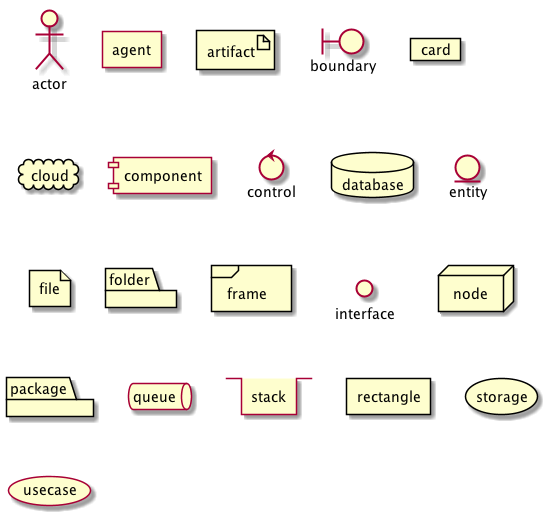
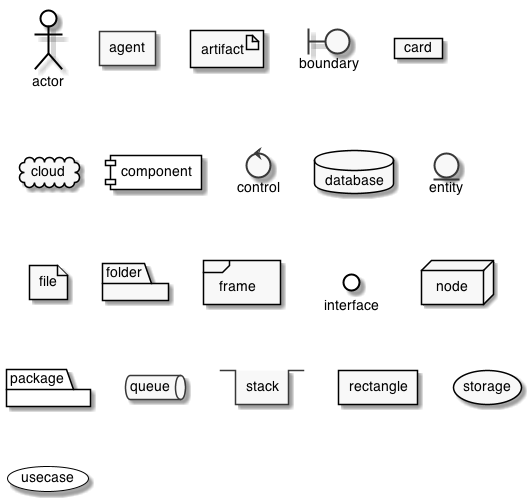
Add styles

diff --git a/README.md b/README.md
@@ -11,6 +11,7 @@ http://plantuml.com/class-diagram
 
 ```plantuml
 @startuml
+!include styles.txt
 System1 -> System2: Request
 System2 --> System1: Response
 @enduml
@@ -23,6 +24,7 @@ System2 --> System1: Response
 
 ```plantuml
 @startuml
+!include styles.txt
 left to right direction
 User1 --> (Story1)
 (Story1) --> (Story2)
@@ -37,6 +39,7 @@ User1 --> (Story1)
 
 ```plantuml
 @startuml
+!include styles.txt
 object Object1 {
   Alpha
   Bravo
@@ -69,6 +72,7 @@ Object1 o-- Object4
 
 ```plantuml
 @startuml
+!include styles.txt
 class Class1 {
   {field} Alpha
   {method} Bravo
@@ -101,6 +105,7 @@ Class1 o-- Class4
 
 ```plantuml
 @startuml
+!include styles.txt
 start
 -> Starting;
 :Activity 1;
@@ -122,6 +127,7 @@ stop
 
 ```plantuml
 @startuml
+!include styles.txt
 component "Component"
 interface "Interface"
 database "Database"
@@ -138,6 +144,7 @@ package "Package"
 
 ```plantuml
 @startuml
+!include styles.txt
 [*] --> State1 : Start
 State1 -> State2 : Change1
 State2 -> State3 : Change2
@@ -149,25 +156,13 @@ State3 : Description 3
 ```
 
 
-## Gantt chart
-
-![Gantt chart](doc/gantt_chart.png)
-
-```plantuml
-@startgantt
-[Task1] on {Alice} lasts 8 days
-then [Task2] on {Bob} lasts 4 days at 50% 
-then [Task3] on {Carol} lasts 2 days at 25%
-@endgantt
-```
-
-
 ## Deployment diagram
 
 ![Deployment diagram](doc/deployment_diagram.png)
 
 ```plantuml
 @startuml
+!include styles.txt
 actor actor
 agent agent
 artifact artifact
@@ -199,6 +194,7 @@ usecase usecase
 
 ```plantuml
 @startuml
+!include styles.txt
 concise "My Timeline" as T
 @T
 0 is Alpha
@@ -227,4 +223,17 @@ salt
   ^This is a droplist^
 }
 @enduml
+```
+
+
+## Gantt chart
+
+![Gantt chart](doc/gantt_chart.png)
+
+```plantuml
+@startgantt
+[Task1] on {Alice} lasts 8 days
+then [Task2] on {Bob} lasts 4 days at 50% 
+then [Task3] on {Carol} lasts 2 days at 25%
+@endgantt
 ```
